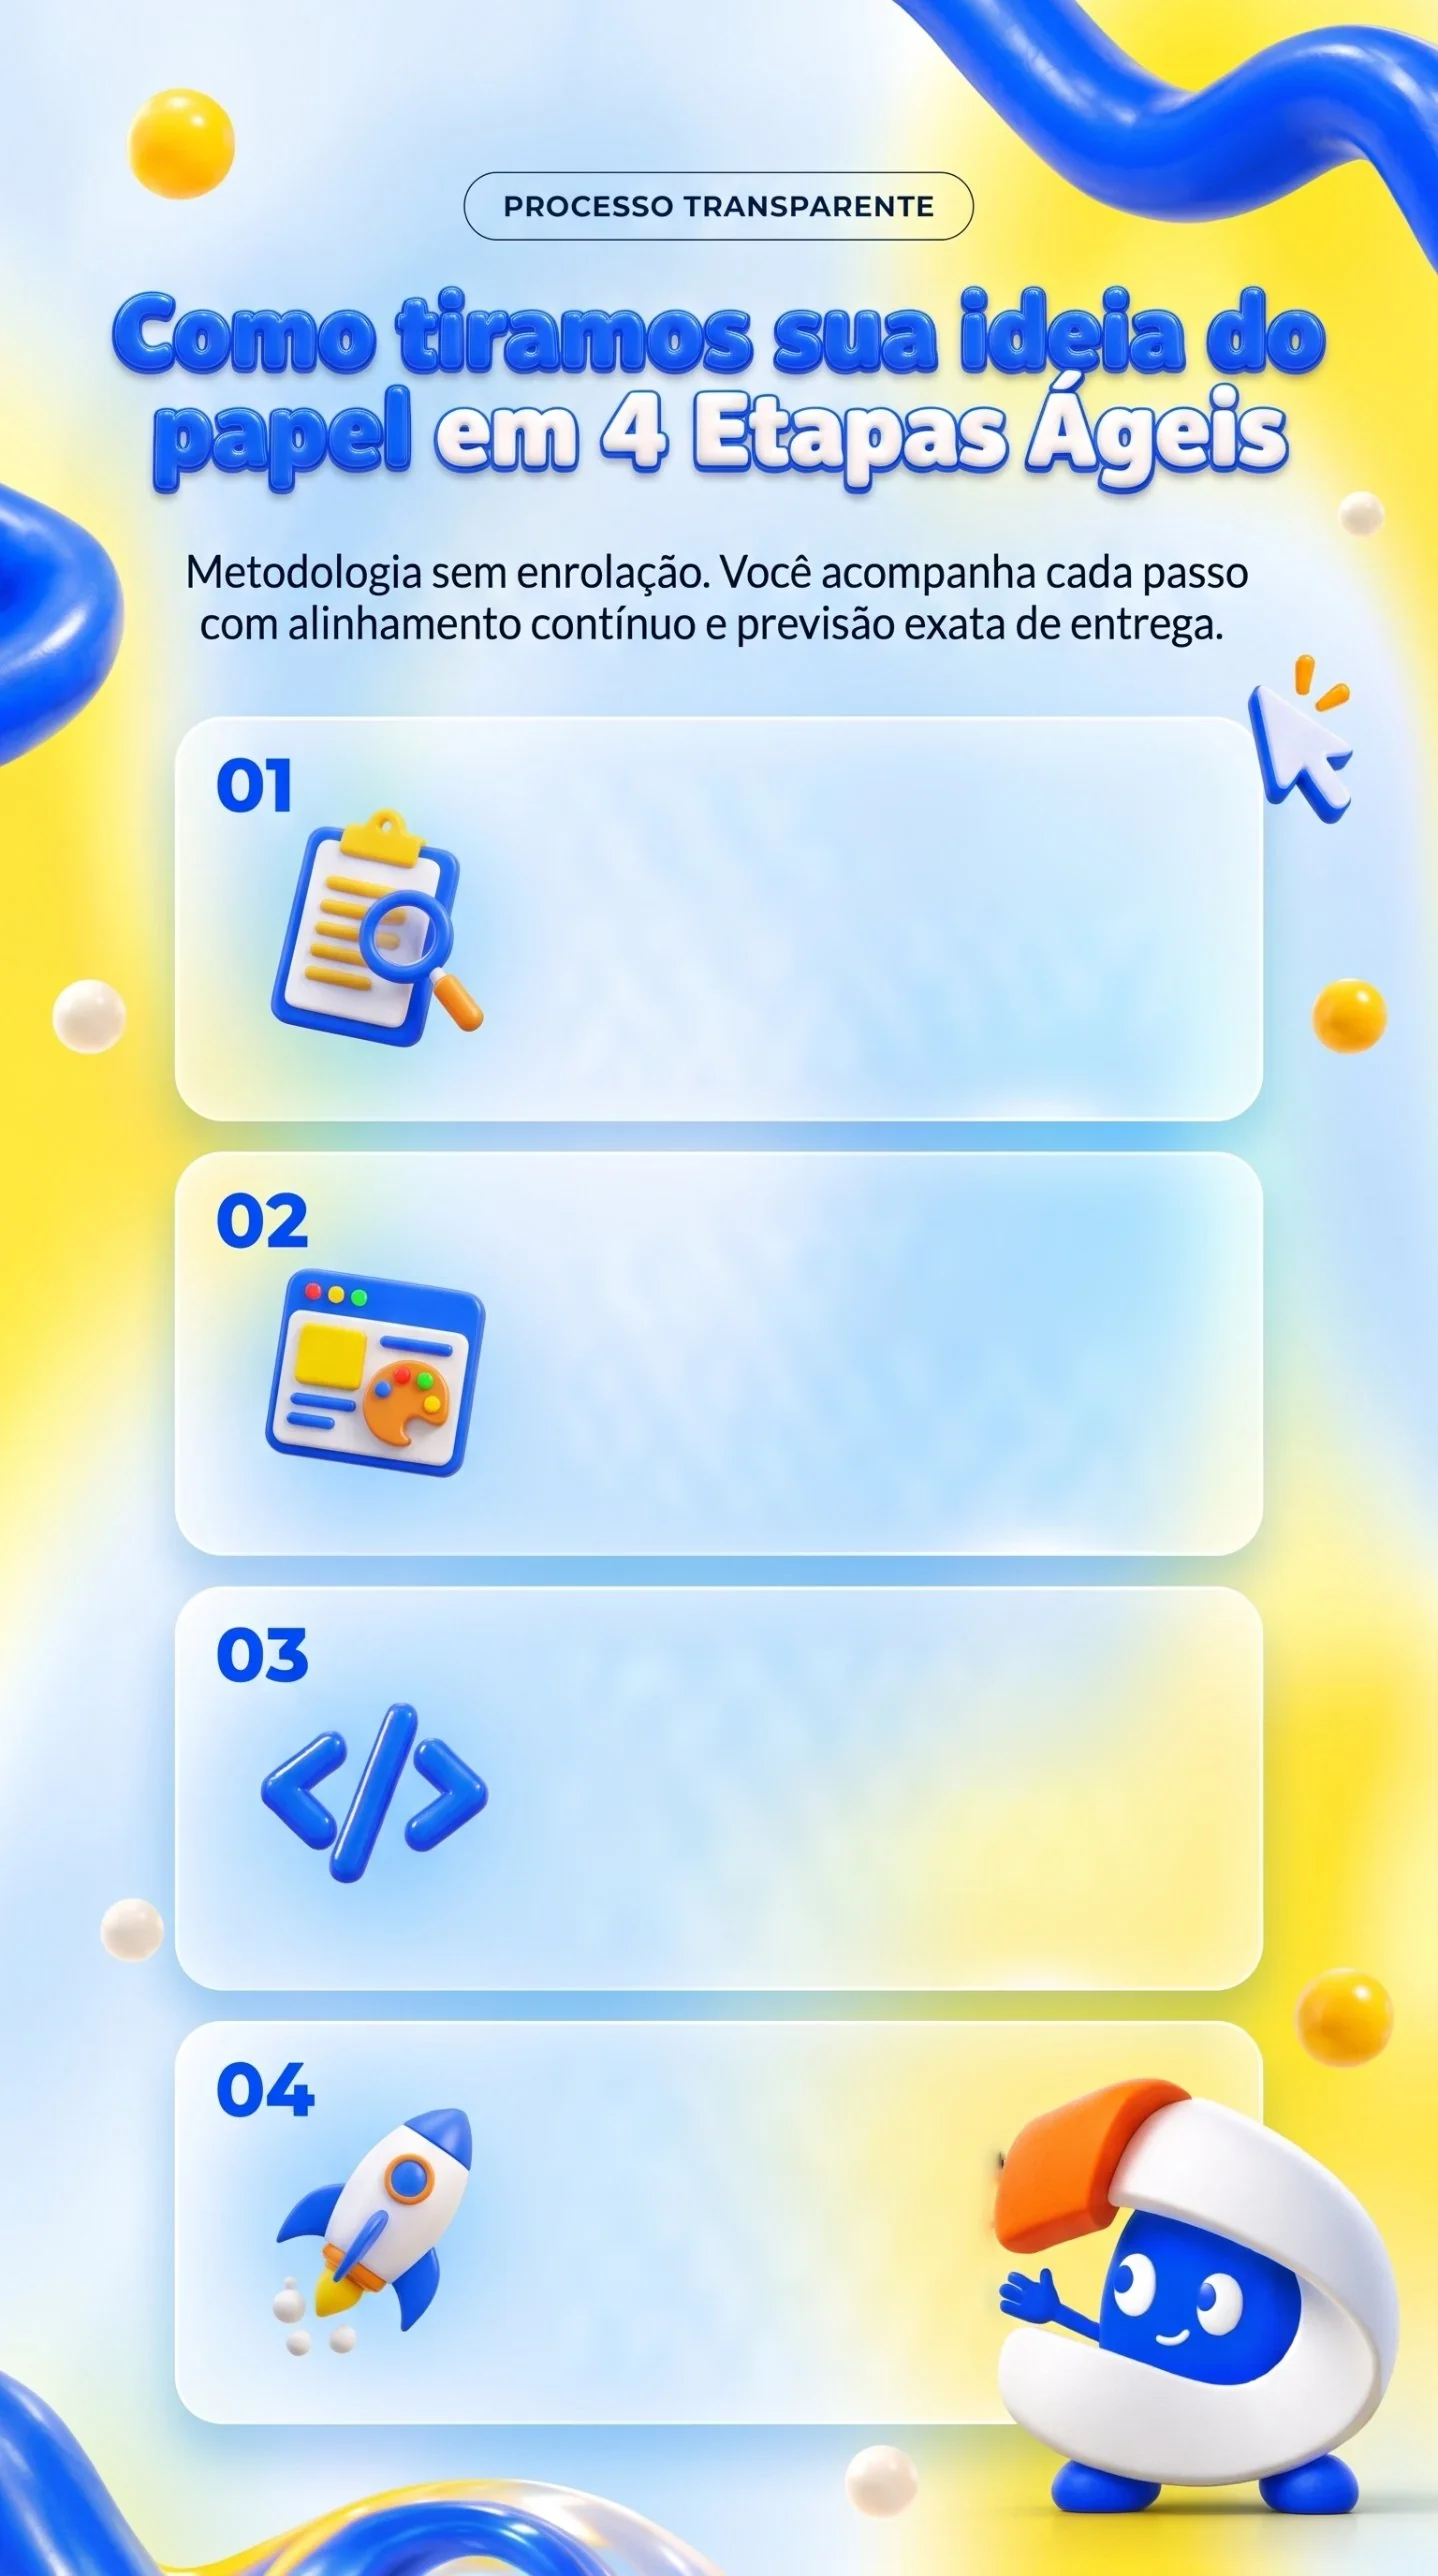
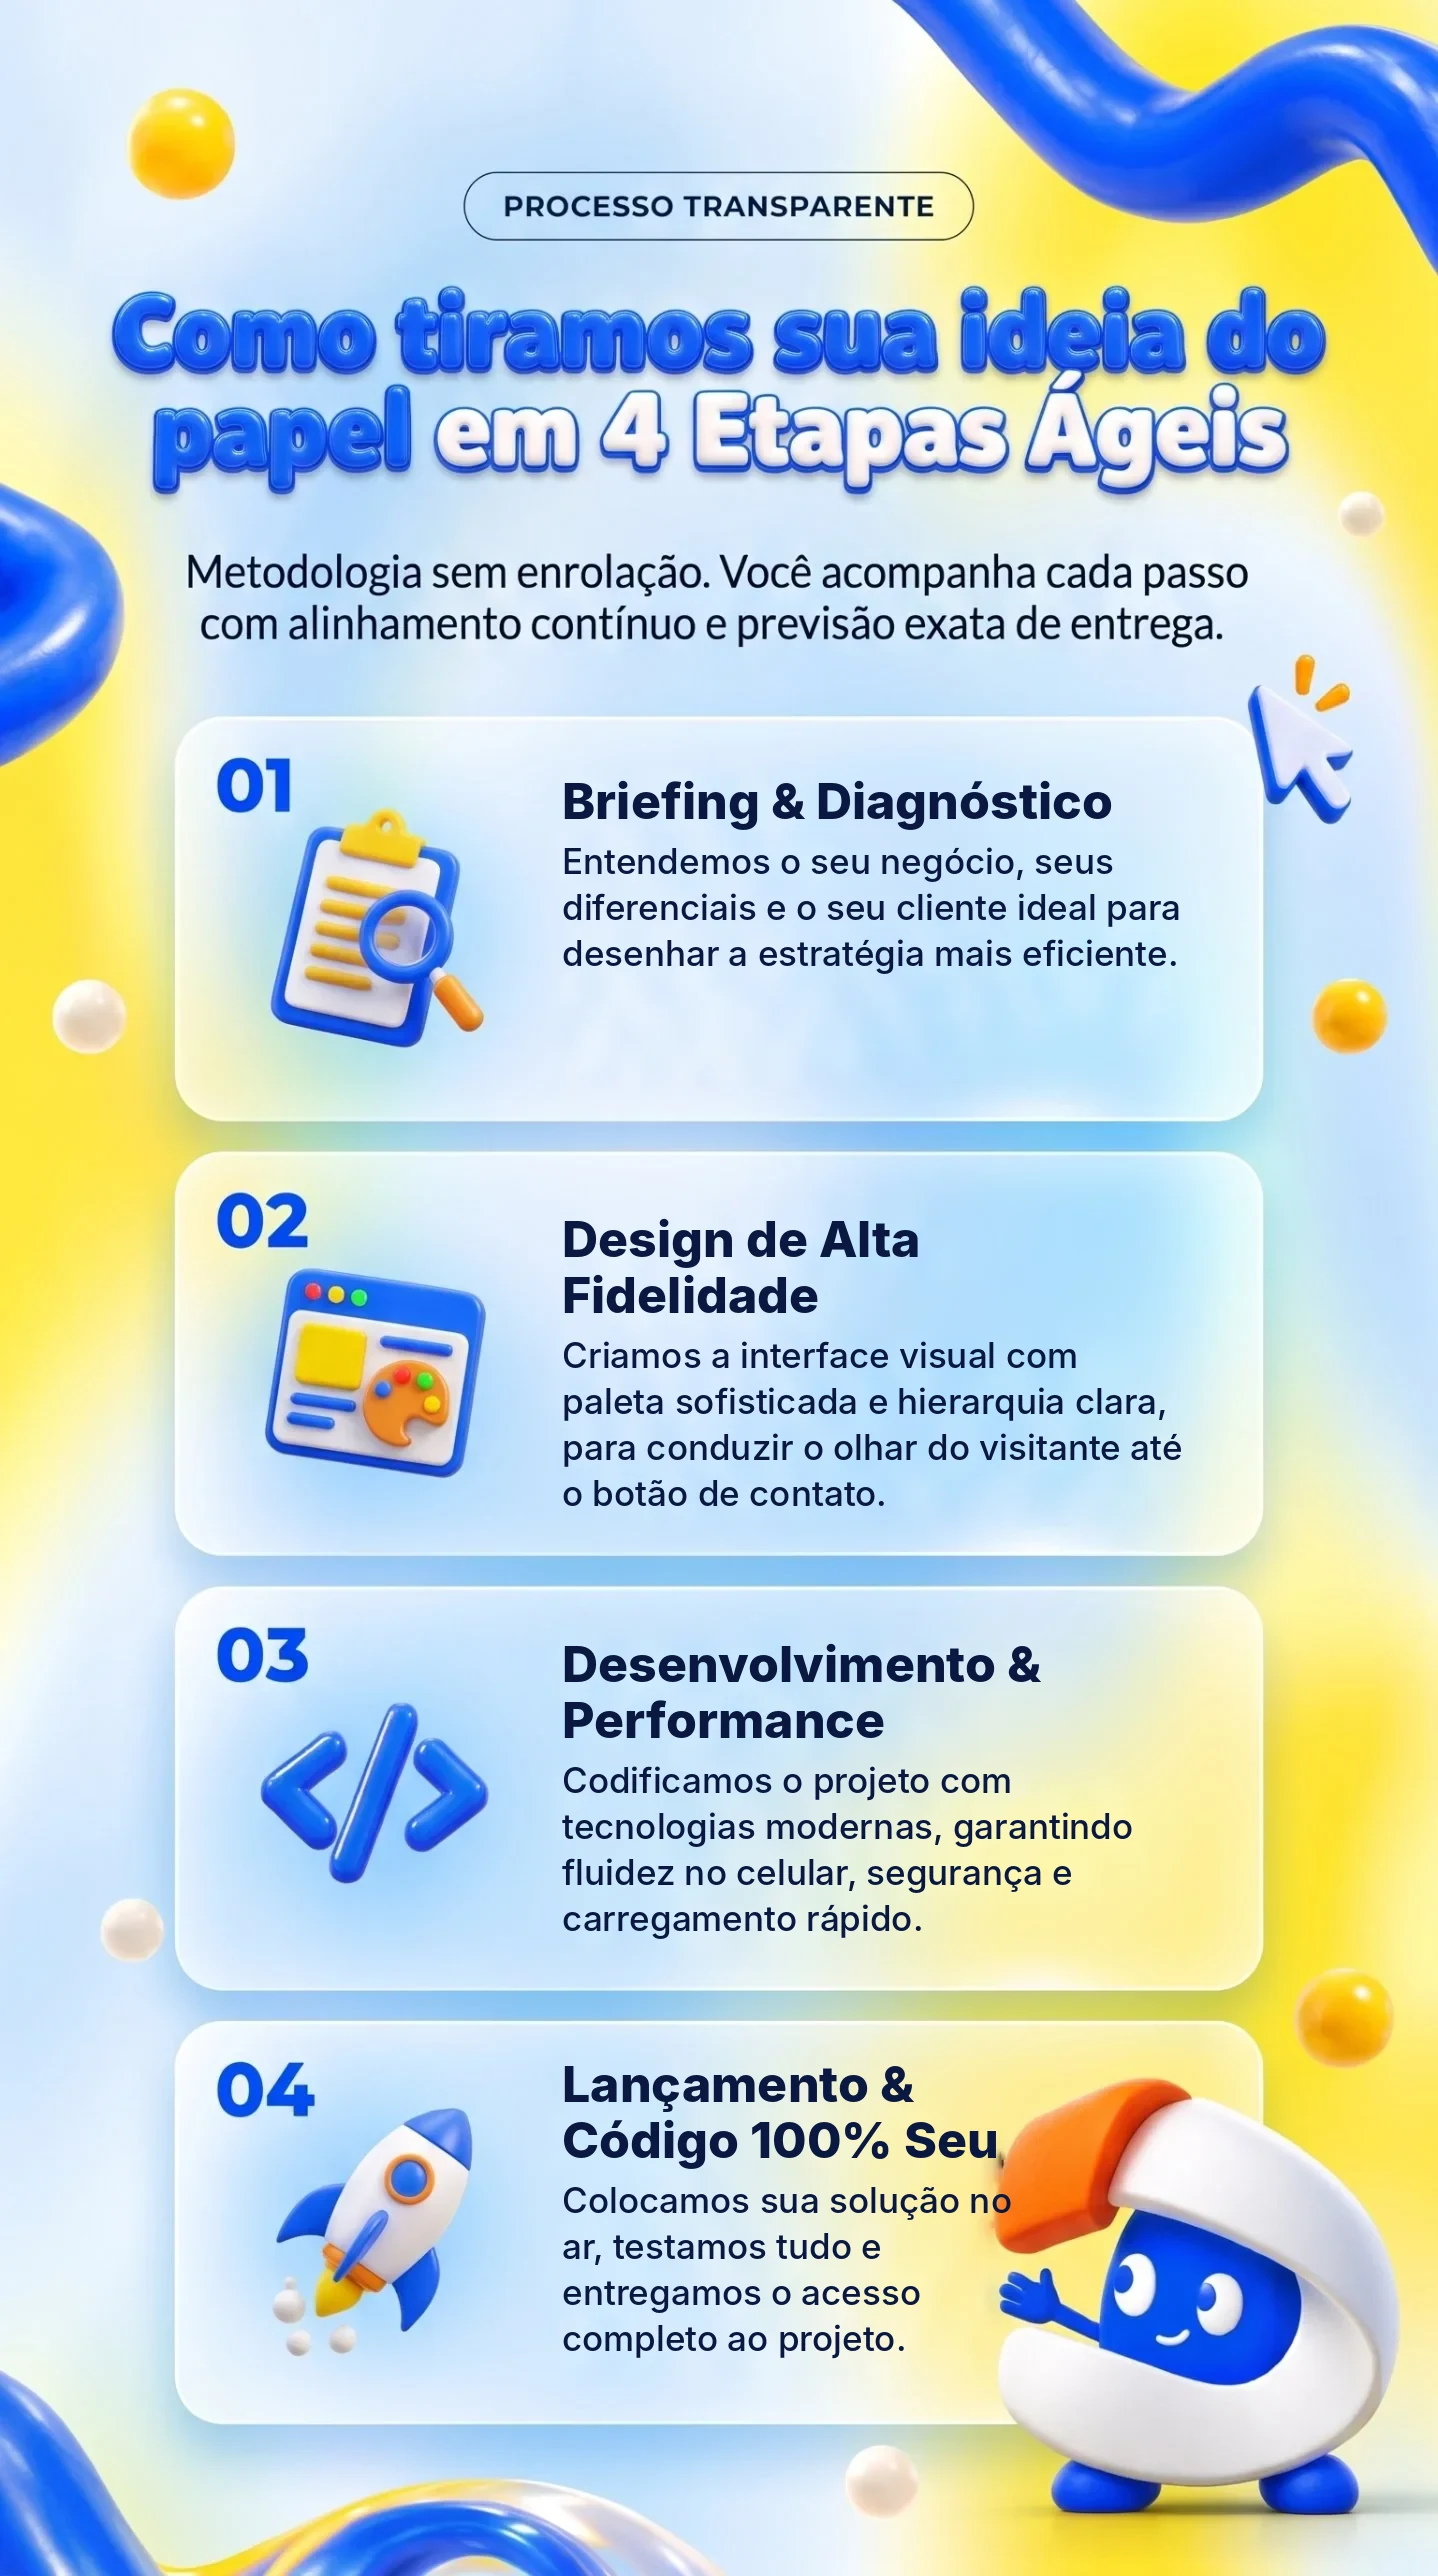
Processo: textos dos cards desenhados na arte, iguais à referência
Os textos ficavam claros em navegadores com modo escuro forçado.
Agora fazem parte da imagem (sempre legíveis) e continuam em HTML
invisível para Google, IAs e leitores de tela.

Claude-Session: https://claude.ai/code/session_01116qkuPV9n5GHVeypah9k4

diff --git a/src/components/ProcessSection.tsx b/src/components/ProcessSection.tsx
@@ -2,11 +2,11 @@ import React from 'react';
 import './process.css';
 
 /*
-  Seção "Processo transparente" igual ao design aprovado.
-  A arte (fundo, título 3D, números, ícones e mascote) fica em public/cv/.
-  Os textos dos cards são HTML de verdade, posicionados em % sobre a arte
-  e com tamanho de fonte proporcional à largura (cqw), para o Google e as
-  IAs conseguirem ler e para você poder editar o texto aqui.
+  Seção "Processo transparente" igual à imagem de referência.
+  Os textos dos cards estão desenhados dentro da arte (public/cv/processo-*.webp),
+  para ficarem sempre legíveis, inclusive em navegadores com "modo escuro forçado".
+  A lista abaixo repete os mesmos textos de forma invisível, só para Google, IAs
+  e leitores de tela. Se mudar um texto aqui, a arte também precisa ser refeita.
 */
 
 type Etapa = { titulo: string; texto: string };
@@ -14,46 +14,27 @@ type Etapa = { titulo: string; texto: string };
 const ETAPAS: Etapa[] = [
   {
     titulo: 'Briefing & Diagnóstico',
-    texto: 'Entendemos o seu negócio, seus diferenciais e o seu cliente ideal para desenhar a estratégia mais eficiente.',
+    texto: 'Entendemos o seu modelo de negócio, seus diferenciais e o comportamento de compra do seu cliente ideal para desenhar a estratégia mais eficiente.',
   },
   {
     titulo: 'Design de Alta Fidelidade',
-    texto: 'Criamos a interface visual com paleta sofisticada e hierarquia clara, para conduzir o olhar do visitante até o botão de contato.',
+    texto: 'Criamos a interface visual com base em neurodesign corporativo, paleta sofisticada e hierarquia perfeita para conduzir o olhar até o botão de contato.',
   },
   {
     titulo: 'Desenvolvimento & Performance',
-    texto: 'Codificamos o projeto com tecnologias modernas, garantindo fluidez no celular, segurança e carregamento rápido.',
+    texto: 'Codificamos o projeto com as tecnologias mais modernas do mercado, garantindo fluidez mobile-first, segurança e velocidade máxima no carregamento.',
   },
   {
     titulo: 'Lançamento & Código 100% Seu',
-    texto: 'Colocamos sua solução no ar, testamos tudo e entregamos o acesso completo ao projeto.',
+    texto: 'Colocamos sua solução no ar, realizamos testes de ponta e entregamos o acesso completo, sem dependência de mensalidades da agência.',
   },
 ];
 
-/* Posição de cada card na arte: left, top e width em % da largura/altura da imagem */
-const POS_DESKTOP = [
-  { l: 10.25, t: 73.6, w: 17.6 },
-  { l: 31.15, t: 73.6, w: 17.6 },
-  { l: 52.25, t: 73.6, w: 17.6 },
-  { l: 73.4, t: 73.6, w: 17.0 },
-];
-const POS_MOBILE = [
-  { l: 39.1, t: 29.9, w: 43.5 },
-  { l: 39.1, t: 46.9, w: 43.5 },
-  { l: 39.1, t: 63.4, w: 43.5 },
-  { l: 39.1, t: 79.7, w: 31.5 },
-];
-
-const Cards: React.FC<{ pos: typeof POS_DESKTOP; tituloNaArte?: boolean }> = ({ pos, tituloNaArte }) => (
-  <ol className="cvp-lista">
-    {ETAPAS.map((e, i) => (
-      <li
-        key={e.titulo}
-        className="cvp-card"
-        style={{ left: `${pos[i].l}%`, top: `${pos[i].t}%`, width: `${pos[i].w}%` }}
-      >
-        {/* no computador o título do card já está na arte; aqui fica só para leitores e Google */}
-        <h3 className={tituloNaArte ? 'cvp-sr' : undefined}>{e.titulo}</h3>
+const Cards: React.FC = () => (
+  <ol className="cvp-sr">
+    {ETAPAS.map((e) => (
+      <li key={e.titulo}>
+        <h3>{e.titulo}</h3>
         <p>{e.texto}</p>
       </li>
     ))}
@@ -67,16 +48,17 @@ export const ProcessSection: React.FC = () => (
       <p>Processo transparente</p>
       <h2 id="cvp-titulo">Como tiramos sua ideia do papel em 4 etapas ágeis</h2>
       <p>Metodologia sem enrolação. Você acompanha cada passo com alinhamento contínuo e previsão de entrega.</p>
+      <Cards />
     </div>
 
     <div className="cvp-arte cvp-desk">
       <img src="/cv/processo-desktop.webp" alt="" width={2576} height={1438} loading="lazy" />
-      <Cards pos={POS_DESKTOP} tituloNaArte />
+      
     </div>
 
     <div className="cvp-arte cvp-mob">
       <img src="/cv/processo-mobile.webp" alt="" width={1438} height={2576} loading="lazy" />
-      <Cards pos={POS_MOBILE} />
+      
     </div>
   </section>
 );

diff --git a/index.html b/index.html
@@ -39,7 +39,7 @@
     <!-- Fontes e imagens -->
     <link rel="preconnect" href="https://fonts.googleapis.com" />
     <link rel="preconnect" href="https://fonts.gstatic.com" crossorigin />
-    <link rel="stylesheet" href="https://fonts.googleapis.com/css2?family=Fredoka:wght@600;700&family=Roboto+Condensed:wght@400;500&family=Montserrat:wght@500;600;700;800&display=swap" />
+    <link rel="stylesheet" href="https://fonts.googleapis.com/css2?family=Fredoka:wght@600;700&family=Montserrat:wght@500;600;700;800&display=swap" />
     <link rel="preload" as="image" href="/cv/hero-desktop.webp" media="(min-width: 761px)" />
     <link rel="preload" as="image" href="/cv/hero-mobile.webp" media="(max-width: 760px)" />
   </head>
